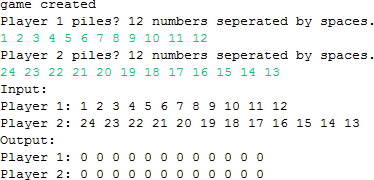
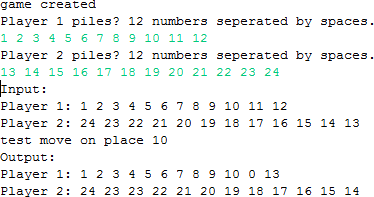
Made game more variable, corrected input, finished move() function and improved demo run

diff --git a/src/oware/Game.java b/src/oware/Game.java
@@ -6,7 +6,7 @@ import java.util.Scanner;
 public class Game {
 	int maxSeeds = 96; //initial and maximum number of seeds
 	int[] currentPiles = new int[24]; //values represents the current piles, piles 0 - 11 are ours and piles 12 - 23 are the opponents
-	int[] nextPiles = new int[24]; //value represents the piles of next move.
+	int[] nextPiles = new int[currentPiles.length]; //value represents the piles of next move.
 	int myScore = 0; // My score, initiated with 0
 	int yourScore = 0; // The score of the opponent, initiated with 0 
 	
@@ -30,8 +30,10 @@ public class Game {
 		input = user_input.nextLine();
 		inputArray = input.split(" ");
 		for(int i = 0; i < 12; i++){
-			currentPiles[23 - i] = Integer.parseInt(inputArray[i]);
-		}		
+			currentPiles[12 + i] = Integer.parseInt(inputArray[i]);
+		}
+		
+		System.arraycopy(currentPiles, 0, nextPiles, 0, currentPiles.length);
 	}
 	
 	/**
@@ -99,8 +101,9 @@ public class Game {
 	
 	private void move(int pos_choose){
 		int num = currentPiles[pos_choose];
+		nextPiles[pos_choose] = 0;
 		for(int i = 0;i<num;i++){
-			nextPiles[(pos_choose+i+1) % 24]++;
+			nextPiles[(pos_choose+i+1) % currentPiles.length]++;
 		}
 	}
 	
@@ -119,7 +122,8 @@ public class Game {
 		game.setPiles();
 		System.out.println("Input:");
 		game.outputOriginalPiles();
-		//todo: do move
+		System.out.println("test move on place 10");
+		game.move(10);
 		System.out.println("Output:");		
 		game.outputPiles();
 	}
